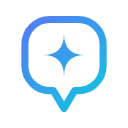
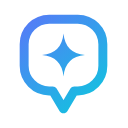
Release 0.9.0

diff --git a/src/popup.ts b/src/popup.ts
@@ -1,4 +1,5 @@
 import { projectOptionsHtml } from './project-options';
+import { guideProgress, type GuideState } from './guide';
 import { SERVER, hostnameOf, type BgRequest, type StoredUser, type ExtProject, type WorkspaceChoice, type ExtEnvironment } from './shared';
 import { chooseProject, type ProjectChoice } from './match';
 import { siteName, pickEnvironment } from './slug';
@@ -23,6 +24,19 @@ function esc(s: string): string {
   return s.replace(/[&<>"']/g, (c) => ({ '&': '&amp;', '<': '&lt;', '>': '&gt;', '"': '&quot;', "'": '&#39;' }[c]!));
 }
 function err(msg: string) { errEl.textContent = msg; }
+
+/** The first-comment guide the dashboard started (set by render() from getState; null when none or expired). */
+let guideState: GuideState | null = null;
+type GuideStep = { text: string; state: 'done' | 'current' | 'todo' };
+function guideBox(steps: GuideStep[]): string {
+  return `<section class="guide" aria-label="${esc(t('guideTitle'))}"><h2>${esc(t('guideTitle'))}</h2><ol>` +
+    steps.map((s) => `<li data-state="${s.state}"${s.state === 'current' ? ' aria-current="step"' : ''}>${esc(s.text)}</li>`).join('') +
+    `</ol><a id="guide-dismiss" href="#">${esc(t('guideDismiss'))}</a></section>`;
+}
+function bindGuideDismiss() {
+  const a = document.getElementById('guide-dismiss');
+  if (a) a.onclick = async (e) => { e.preventDefault(); await send({ type: 'guideDismiss' }); guideState = null; await render(); };
+}
 
 /** 2026-10-28: the popup's text for a throttled answer (this address vs the network), wait in minutes. */
 function limitMessage(status: string, seconds: number | null): string {
@@ -54,12 +68,14 @@ type PopupState = {
   pendingSignup: { email: string; sentAt: number; flow: 'sign-in' | 'sign-up' } | null; postSignup: boolean;
   pendingChoice: { workspaces: WorkspaceChoice[]; selectionToken: string; email: string } | null;
   authOutcome: { status: string; email: string } | null;
+  guide?: GuideState | null;
 };
 
 async function render() {
   err('');
   const state = await send<PopupState>({ type: 'getState' });
   await loadProduct();
+  guideState = state.guide ?? null;
   // A code sign-in finished while the popup was closed: show its picker or its message (kept by the background).
   if (!state.hasToken && state.pendingChoice) return renderChooseWorkspace(state.pendingChoice.workspaces, state.pendingChoice.selectionToken);
   if (!state.hasToken && state.authOutcome) {
@@ -346,7 +362,14 @@ async function renderAuth(prefillEmail = '', mode: 'code' | 'password' = 'code')
   const rawUrl = tab?.url || '';
   const inviteToken = /^https?:/.test(rawUrl) ? inviteTokenFromUrl(rawUrl) : null;
   const codeMode = mode === 'code';
+  const g = guideState;
+  const guideHtml = g ? guideBox([
+    { text: t('guideSignIn'), state: 'current' },
+    { text: t('guideChoose', { project: g.projectName }), state: 'todo' },
+    { text: t('guideActivate'), state: 'todo' },
+  ]) : '';
   setView(`
+    ${guideHtml}
     ${inviteToken ? `
     <div class="hint" data-tone="ok" id="invite-detected">${esc(t('inviteDetected'))}</div>
     <button class="primary" id="use-invite">${esc(t('useInvitation'))}</button>` : ''}
@@ -362,6 +385,7 @@ async function renderAuth(prefillEmail = '', mode: 'code' | 'password' = 'code')
     <button class="ghost secondary" id="create-account">${esc(t('createAccount'))}</button>
     <div class="note">${esc(t('signInNote'))}</div>
     <div class="note">${esc(t('inviteReentryHint'))}</div>`);
+  bindGuideDismiss();
   focusById(!codeMode && prefillEmail ? 'password' : 'email');
   const typedEmail = () => (document.getElementById('email') as HTMLInputElement).value.trim();
   if (inviteToken) {
@@ -584,6 +608,8 @@ async function renderMain(user: StoredUser | null, postSignup = false) {
   };
   // Set after "+ Add project" succeeds, so the new project is selected on the redraw.
   let createdKey = '';
+  // The project the user picked in this popup session (a guide's Choose step counts only this).
+  let pickedKey = '';
 
   // Which project the tab runs now, and what the main button will do with the selected one: the
   // popup used to say "Switch to selected project" even when that project was already active.
@@ -606,7 +632,8 @@ async function renderMain(user: StoredUser | null, postSignup = false) {
       : isQuickAccess
         ? (projects[0] ? { key: projects[0].key, source: 'matched' } : { key: '', source: 'none' })
         : chooseProject(projects, url, remembered);
-    const selectedKey = choice.key;
+    // While a guide is active, nothing is preselected: the user picks (D6). A project created here still counts.
+    const selectedKey = guideState && choice.source !== 'created' ? pickedKey : choice.key;
     const hint = hints[choice.source];
     const showUnclaimed = choice.source === 'none' && unclaimedEligible(url);
     // Matched projects first in the suggestions (all tied candidates when ambiguous), then the rest.
@@ -614,9 +641,24 @@ async function renderMain(user: StoredUser | null, postSignup = false) {
     const ordered = [...projects.filter((p) => firstKeys.includes(p.key)), ...projects.filter((p) => !firstKeys.includes(p.key))];
     const opts = projectOptionsHtml(ordered, selectedKey);
 
+    const g = guideState;
+    let guideHtml = '';
+    if (g) {
+      const p = guideProgress(g, choice.source === 'created' ? choice.key : pickedKey, tabState.active ? (tabState.remembered?.project ?? null) : null);
+      const steps: GuideStep[] = [
+        { text: t('guideSignedIn'), state: 'done' },
+        { text: t('guideChoose', { project: g.projectName }), state: p.choose },
+        { text: t('guideActivate'), state: p.activate },
+      ];
+      if (p.comment) steps.push({ text: t('guideComment'), state: 'current' });
+      const wrongSite = !!g.siteOrigin && g.siteOrigin !== origin;
+      guideHtml = guideBox(steps) + (wrongSite ? `<div class="note">${esc(t('guideOpenSite', { origin: g.siteOrigin! }))}</div>` : '');
+    }
+
     setView(`
       <div class="bar"><span class="who">${who}</span><a id="signout">Sign out</a></div>
       ${workspaceSwitcherHtml}
+      <div id="guide-wrap">${guideHtml}</div>
       ${extrasHtml()}
       ${postSignupHtml}
       <div class="dom">${esc(hostname)}</div>
@@ -647,6 +689,7 @@ async function renderMain(user: StoredUser | null, postSignup = false) {
 
     (document.getElementById('signout') as HTMLElement).onclick = signOut;
     bindWorkspaceSwitcher();
+    bindGuideDismiss();
     bindExtras();
     const uLeave = document.getElementById('u-leave') as HTMLButtonElement | null;
     if (uLeave && tab?.id !== undefined) uLeave.onclick = () => startUnclaimed(tab.id!, origin, uLeave);
@@ -656,6 +699,13 @@ async function renderMain(user: StoredUser | null, postSignup = false) {
     const hintEl = document.getElementById('project-hint');
     const toggleBtn = document.getElementById('toggle') as HTMLButtonElement | null;
     if (projectInput) projectInput.addEventListener('change', () => {
+      pickedKey = projectInput.value.trim();
+      // The latest explicit pick supersedes the "just created" default (else the redraw resets the select to it).
+      createdKey = '';
+      if (guideState) {
+        draw();
+        return;
+      }
       if (hintEl) hintEl.hidden = projectInput.value.trim() !== selectedKey;
       if (toggleBtn) toggleBtn.textContent = toggleLabel(projectInput.value.trim());
     });

diff --git a/src/background.ts b/src/background.ts
@@ -9,6 +9,7 @@ import { injectMain } from './inject-main';
 import { extensionEnv } from './env';
 import { signupStatusFromResponse, magicStatusFromResponse, freshPendingChoice, freshAuthOutcome, type SignupStatus } from './signup';
 import { LANG } from './i18n';
+import { parseGuideStart, guideActive, type GuideState } from './guide';
 import { matchProxyRoute, routeAuthorization, redactCredentials, type ProxyRoute } from './proxy-policy';
 import { uploadForm } from './upload-form';
 import { tokenExpired } from './session';
@@ -283,6 +284,10 @@ async function runActivationOnce(m: { tabId: number; hostname: string; origin: s
   }
   await setStaged(null);
   recentlyActivated.set(m.tabId, { project: m.project, at: Date.now() });
+  const storedGuide = (await chrome.storage.local.get(LOCAL_KEYS.guide))[LOCAL_KEYS.guide] as GuideState | undefined;
+  if (guideActive(storedGuide, Date.now()) && storedGuide.projectKey === m.project) {
+    await chrome.storage.local.set({ [LOCAL_KEYS.guide]: { ...storedGuide, activatedAt: Date.now() } });
+  }
   await activate(m.tabId, m.hostname, m.project, m.environment);
   return { ok: true };
 }
@@ -729,14 +734,25 @@ chrome.runtime.onMessage.addListener((msg: BgRequest | ProxyRequest, sender, sen
         const authOutcome = hasToken ? null : freshAuthOutcome(kept[SESSION_KEYS.authOutcome], now);
         if (kept[SESSION_KEYS.authOutcome]) await chrome.storage.session.remove(SESSION_KEYS.authOutcome); // one-shot
         if (kept[SESSION_KEYS.pendingChoice] && !pendingChoice) await chrome.storage.session.remove(SESSION_KEYS.pendingChoice); // expired or junk
+        const storedGuide = (await chrome.storage.local.get(LOCAL_KEYS.guide))[LOCAL_KEYS.guide] as GuideState | undefined;
+        const guide = guideActive(storedGuide, now) ? storedGuide : null;
+        if (storedGuide && !guide) await chrome.storage.local.remove(LOCAL_KEYS.guide);
         return {
-          user, hasToken,
+          user, hasToken, guide,
           pendingSignup: pending ? { email: pending.email, sentAt: pending.sentAt, flow: pending.flow } : null,
           postSignup,
           pendingChoice: pendingChoice ? { workspaces: pendingChoice.workspaces, selectionToken: pendingChoice.selectionToken, email: pendingChoice.email } : null,
           authOutcome,
         };
       }
+      case 'guideStart': {
+        if (!sender.url?.startsWith('https://app.pinsay.dev/')) return { ok: false };
+        const guide = parseGuideStart({ source: 'pinsay-dashboard', kind: 'guide-start', ...m.guide }, Date.now());
+        if (!guide) return { ok: false };
+        await chrome.storage.local.set({ [LOCAL_KEYS.guide]: guide });
+        return { ok: true };
+      }
+      case 'guideDismiss': { await chrome.storage.local.remove(LOCAL_KEYS.guide); return { ok: true }; }
       case 'clearPostSignup': { await chrome.storage.local.remove(LOCAL_KEYS.postSignup); return { ok: true }; }
       case 'signupEnabled': {
         const r = await apiFetch('/api/auth/signup-enabled', { method: 'GET' });

diff --git a/test/guide.test.ts b/test/guide.test.ts
@@ -1,0 +1,63 @@
+import { test } from 'node:test';
+import assert from 'node:assert/strict';
+import { parseGuideStart, guideActive, guideProgress, GUIDE_TTL_MS } from '../src/guide.ts';
+
+const ok = { source: 'pinsay-dashboard', kind: 'guide-start', projectKey: 'my-proj_1', projectName: ' My Project ', siteOrigin: 'https://example.com/some/path?q=1' };
+const NOW = 1_700_000_000_000;
+
+test('parseGuideStart accepts a valid message and normalizes the origin', () => {
+  assert.deepEqual(parseGuideStart(ok, NOW), { projectKey: 'my-proj_1', projectName: 'My Project', siteOrigin: 'https://example.com', startedAt: NOW });
+});
+
+test('parseGuideStart rejects wrong source, kind and non-objects', () => {
+  assert.equal(parseGuideStart({ ...ok, source: 'x' }, NOW), null);
+  assert.equal(parseGuideStart({ ...ok, kind: 'other' }, NOW), null);
+  assert.equal(parseGuideStart(null, NOW), null);
+  assert.equal(parseGuideStart('guide-start', NOW), null);
+});
+
+test('parseGuideStart rejects bad keys and empty names', () => {
+  assert.equal(parseGuideStart({ ...ok, projectKey: 'a b' }, NOW), null);
+  assert.equal(parseGuideStart({ ...ok, projectKey: 'a'.repeat(65) }, NOW), null);
+  assert.equal(parseGuideStart({ ...ok, projectName: '   ' }, NOW), null);
+});
+
+test('parseGuideStart drops a non-http siteOrigin', () => {
+  assert.equal(parseGuideStart({ ...ok, siteOrigin: 'javascript:alert(1)' }, NOW)?.siteOrigin, null);
+  assert.equal(parseGuideStart({ ...ok, siteOrigin: undefined }, NOW)?.siteOrigin, null);
+});
+
+test('guideActive honours the 24 h window', () => {
+  const g = parseGuideStart(ok, NOW)!;
+  assert.equal(guideActive(g, NOW + 23 * 3600_000), true);
+  assert.equal(guideActive(g, NOW + 25 * 3600_000), false);
+  assert.equal(guideActive(null, NOW), false);
+  assert.equal(GUIDE_TTL_MS, 24 * 3600_000);
+});
+
+const gp = { projectKey: 'my-proj_1', projectName: 'My Project', siteOrigin: null, startedAt: NOW };
+
+test('guideProgress: a preselected but unpicked project does not complete Choose', () => {
+  const r = guideProgress(gp, '', null);
+  assert.equal(r.choose, 'current');
+  assert.equal(r.activate, 'todo');
+});
+
+test('guideProgress: picking the guide project completes Choose', () => {
+  const r = guideProgress(gp, gp.projectKey, null);
+  assert.equal(r.choose, 'done');
+  assert.equal(r.activate, 'current');
+});
+
+test('guideProgress: a wrong project active on the tab does not count', () => {
+  const r = guideProgress(gp, 'other', 'other');
+  assert.equal(r.choose, 'current');
+  assert.equal(r.activate, 'todo');
+});
+
+test('guideProgress: a tab already running the project is done through Activate', () => {
+  const r = guideProgress(gp, '', gp.projectKey);
+  assert.equal(r.choose, 'done');
+  assert.equal(r.activate, 'done');
+  assert.equal(r.comment, true);
+});

diff --git a/popup.html b/popup.html
@@ -64,6 +64,12 @@
     select[aria-busy="true"] { cursor: progress; }
     .secondary { margin-top: 6px; }
     .note.spaced { margin-top: 12px; }
+    .guide { border: 1px solid var(--ps-line); border-radius: 8px; padding: 8px 10px; margin: 8px 0; }
+    .guide h2 { font-size: 12px; margin: 0 0 4px; }
+    .guide ol { margin: 0; padding-inline-start: 18px; }
+    .guide li { font-size: 12px; margin: 2px 0; }
+    .guide li[data-state=done] { opacity: .65; text-decoration: line-through; }
+    .guide li[data-state=current] { font-weight: 600; }
     .hint { font-size: 11px; color: var(--ps-muted); margin-top: 6px; line-height: 1.45; }
     .hint[data-tone="ok"] { color: var(--ps-success-ink); }
     .foot { display: flex; align-items: center; gap: 6px; margin-top: 12px; padding-top: 10px; border-top: 1px solid var(--ps-line-soft); font-size: 11px; color: var(--ps-muted); }
@@ -72,7 +78,7 @@
   </style>
 </head>
 <body>
-  <h1><svg class="mark" width="22" height="22" viewBox="6 2 52 58" fill="none" aria-hidden="true"><defs><linearGradient id="pg" gradientUnits="userSpaceOnUse" x1="10" y1="6" x2="54" y2="56"><stop offset="0" stop-color="#567bf7"/><stop offset="1" stop-color="#0ec7de"/></linearGradient></defs><path d="M10 20C10 12.268 16.268 6 24 6H40C47.732 6 54 12.268 54 20V32C54 39.732 47.732 46 40 46H38L32 56L26 46H24C16.268 46 10 39.732 10 32V20Z" stroke="url(#pg)" stroke-width="4.5" stroke-linejoin="round"/><path d="M32 14Q32 26 44 26Q32 26 32 38Q32 26 20 26Q32 26 32 14Z" fill="url(#pg)"/></svg><span id="brand">PinSay Feedback</span></h1>
+  <h1><svg class="mark" width="22" height="22" viewBox="6 2 52 58" fill="none" aria-hidden="true"><defs><linearGradient id="pg" gradientUnits="userSpaceOnUse" x1="10" y1="6" x2="54" y2="56"><stop offset="0" stop-color="#567bf7"/><stop offset="1" stop-color="#0ec7de"/></linearGradient></defs><path d="M10 20C10 12.268 16.268 6 24 6H40C47.732 6 54 12.268 54 20V32C54 39.732 47.732 46 40 46H38L32 56L26 46H24C16.268 46 10 39.732 10 32V20Z" stroke="url(#pg)" stroke-width="4.5" stroke-linejoin="round"/><path d="M32 14Q33 25 44 26Q33 27 32 38Q31 27 20 26Q31 25 32 14Z" fill="url(#pg)"/></svg><span id="brand">PinSay Feedback</span></h1>
   <div id="root">Loading…</div>
   <div class="err" id="err" role="alert"></div>
   <footer class="foot" id="foot"></footer>

diff --git a/src/guide.ts b/src/guide.ts
@@ -1,0 +1,31 @@
+export interface GuideState { projectKey: string; projectName: string; siteOrigin: string | null; startedAt: number; activatedAt?: number }
+export const GUIDE_TTL_MS = 24 * 60 * 60 * 1000;
+
+/** Validates the dashboard's guide-start message. Returns null for anything unexpected. No credentials ever. */
+export function parseGuideStart(d: unknown, now: number): GuideState | null {
+  if (!d || typeof d !== 'object') return null;
+  const m = d as Record<string, unknown>;
+  if (m.source !== 'pinsay-dashboard' || m.kind !== 'guide-start') return null;
+  const key = typeof m.projectKey === 'string' ? m.projectKey : '';
+  if (!/^[A-Za-z0-9_-]{1,64}$/.test(key)) return null;
+  const name = typeof m.projectName === 'string' ? m.projectName.trim().slice(0, 120) : '';
+  if (!name) return null;
+  let origin: string | null = null;
+  if (typeof m.siteOrigin === 'string' && m.siteOrigin) {
+    try { const u = new URL(m.siteOrigin); if (u.protocol === 'http:' || u.protocol === 'https:') origin = u.origin; } catch { origin = null; }
+  }
+  return { projectKey: key, projectName: name, siteOrigin: origin, startedAt: now };
+}
+
+export function guideActive(g: GuideState | null | undefined, now: number): g is GuideState {
+  return !!g && now - g.startedAt < GUIDE_TTL_MS;
+}
+
+export type GuideStepState = 'done' | 'current' | 'todo';
+
+/** D6/AC20: Choose counts only an explicit pick in this popup (never a preselection), or a tab already running the project. */
+export function guideProgress(g: GuideState, pickedKey: string, activeProject: string | null): { choose: GuideStepState; activate: GuideStepState; comment: boolean } {
+  const activated = !!activeProject && activeProject === g.projectKey;
+  const chosen = activated || (!!pickedKey && pickedKey === g.projectKey);
+  return { choose: chosen ? 'done' : 'current', activate: activated ? 'done' : chosen ? 'current' : 'todo', comment: activated };
+}

diff --git a/src/i18n.ts b/src/i18n.ts
@@ -80,6 +80,14 @@ export const STRINGS = {
   backToSignIn: { en: 'Back to sign in', ar: 'العودة لتسجيل الدخول' },
   selectWorkspace: { en: 'Please select a workspace.', ar: 'يُرجى اختيار مساحة عمل.' },
   selectWorkspaceFailed: { en: 'Could not select the workspace.', ar: 'تعذّر اختيار مساحة العمل.' },
+  guideTitle: { en: 'Your first comment', ar: 'تعليقك الأول' },
+  guideSignIn: { en: 'Sign in with the same account you use on the PinSay dashboard.', ar: 'سجّل الدخول بنفس الحساب الذي تستخدمه في لوحة تحكم PinSay.' },
+  guideSignedIn: { en: 'Signed in', ar: 'تم تسجيل الدخول' },
+  guideChoose: { en: 'Choose “{project}” under Project.', ar: 'اختر «{project}» من قائمة المشروع.' },
+  guideActivate: { en: 'Click “Activate on this tab”.', ar: 'اضغط «Activate on this tab».' },
+  guideComment: { en: 'PinSay is on. Click Comment in the toolbar on your page, then click what you want to change.', ar: 'PinSay يعمل الآن. اضغط «تعليق» في شريط الأدوات على صفحتك، ثم اضغط على ما تريد تغييره.' },
+  guideOpenSite: { en: 'Open {origin} in this tab first.', ar: 'افتح {origin} في هذا التبويب أولًا.' },
+  guideDismiss: { en: 'Hide', ar: 'إخفاء' },
 } as const;
 
 export type StringKey = keyof typeof STRINGS;

diff --git a/src/shared.ts b/src/shared.ts
@@ -1,4 +1,5 @@
 // Shared constants + message contracts used across background / content / popup.
+import type { GuideState } from './guide';
 
 // The one PinSay server this extension talks to (no server choice since 0.4.0, same rule as the
 // CLI). To bring a choice back, read it here — every caller uses this constant.
@@ -17,6 +18,7 @@ export const LOCAL_KEYS = {
   pendingSignup: 'pendingSignup', // { pendingToken, email, sentAt, flow: 'sign-in' | 'sign-up' } while a magic-link sign-in / sign-up waits for its confirmation
   postSignup: 'postSignup', // { at } after a fresh sign-up, until the first activation
   visitorByDomain: 'visitorByDomain', // { [hostname]: { project } } sites activated in visitor mode (no team session)
+  guide: 'guide', // GuideState the dashboard started (first-comment guide), 24 h
 } as const;
 /** Where versions before 0.4.0 stored a user-chosen server; deleted on update (see background.ts). */
 export const LEGACY_SERVER_KEY = 'server';
@@ -104,7 +106,9 @@ export type BgRequest =
   | { type: 'extForgetSignup' }
   | { type: 'clearAuthOutcome' }
   | { type: 'extFirstWorkspace'; name?: string }
-  | { type: 'clearPostSignup' };
+  | { type: 'clearPostSignup' }
+  | { type: 'guideStart'; guide: GuideState }
+  | { type: 'guideDismiss' };
 
 // page (MAIN world, via content bridge) -> background: proxied API traffic
 export type ProxyRequest =

diff --git a/test/manifest.test.ts b/test/manifest.test.ts
@@ -1,6 +1,7 @@
 import { test } from 'node:test';
 import assert from 'node:assert/strict';
-import { manifestFor } from '../scripts/manifest.mjs';
+import { readFileSync } from 'node:fs';
+import { manifestFor, TARGETS } from '../scripts/manifest.mjs';
 
 const base = {
   manifest_version: 3,
@@ -32,4 +33,15 @@ test('manifestFor does not mutate the base', () => {
   const copy = structuredClone(base);
   manifestFor('firefox', base);
   assert.deepEqual(base, copy);
+});
+
+test('every target ships the presence content script on the dashboard only, host permissions unchanged', () => {
+  const real = JSON.parse(readFileSync(new URL('../manifest.json', import.meta.url), 'utf8'));
+  for (const target of Object.keys(TARGETS)) {
+    const m = manifestFor(target, real);
+    assert.deepEqual(m.content_scripts, [
+      { matches: ['https://app.pinsay.dev/*'], js: ['presence.js'], run_at: 'document_start' },
+    ]);
+    assert.deepEqual(m.host_permissions, ['https://app.pinsay.dev/*', 'https://api.pinsay.dev/*']);
+  }
 });

diff --git a/src/presence.ts b/src/presence.ts
@@ -1,0 +1,10 @@
+// Tells the PinSay dashboard this extension is installed, and relays its guide-start message. No token,
+// key or password crosses this bridge: only a project key, a project name and a site origin.
+import { parseGuideStart } from './guide';
+
+document.documentElement.setAttribute('data-pinsay-extension', chrome.runtime.getManifest().version);
+window.addEventListener('message', (e) => {
+  if (e.source !== window || e.origin !== window.location.origin) return;
+  const guide = parseGuideStart(e.data, Date.now());
+  if (guide) void chrome.runtime.sendMessage({ type: 'guideStart', guide });
+});

diff --git a/README.md b/README.md
@@ -137,6 +137,7 @@ The same notes for users are on the public page
 [pinsay.dev/docs/extension-changelog.html](https://pinsay.dev/docs/extension-changelog.html), which the popup
 footer links to.
 
+- **0.9.0** — Starting your first comment from the PinSay dashboard (**Get started**) now guides you in the popup: sign in with the same account, choose the project the dashboard named, turn on PinSay for this site, then leave your comment. The dashboard can also tell that the extension is installed, in any browser.
 - **0.8.5** — Security fix: scripts on a page where PinSay is active can no longer use your PinSay sign-in for anything beyond the feedback tool's own requests. Sign-in, account, workspace, key, member and billing requests from the page never carry your session, and sign-in tokens are removed from what the page receives.
 - **0.8.4** — **Leave feedback** on a site without visitor feedback keeps working when the page reloads or redirects by itself: the feedback tool comes back on the same site for 30 minutes, and the popup offers **Turn off on this site**. The card no longer says the site doesn't use PinSay (it may have a project with visitor feedback off) and says the page reloads once.
 - **0.8.3** — On a site that doesn't use PinSay yet, the popup offers **Leave feedback**: with the site's permission it opens the PinSay feedback form on that page, and your feedback (screenshot included) is kept for the site's owner — your email is optional. On the sites you set up in the extension, a bug report now also includes uncaught page errors and unhandled rejections from the very start of the page load, before the feedback form opens.
